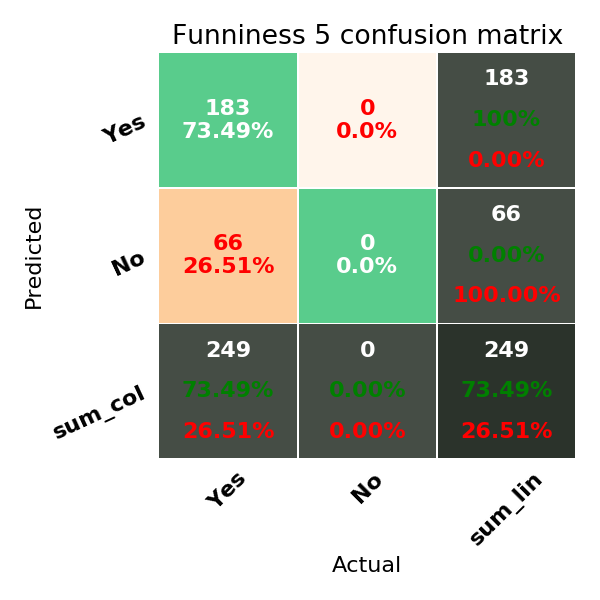
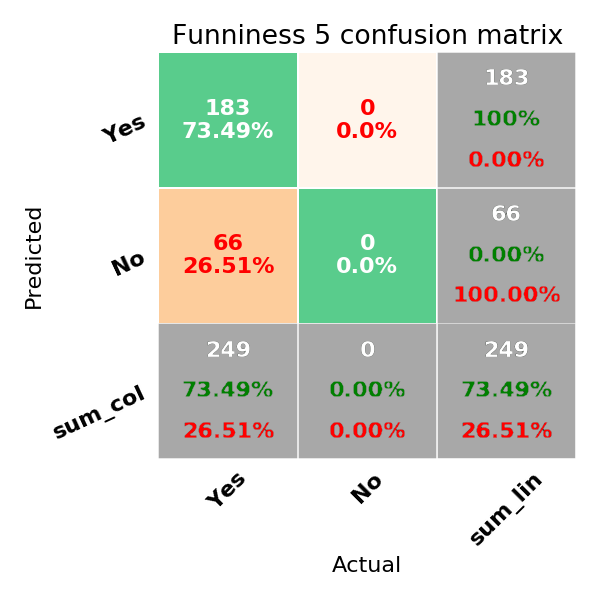
add two stage confusion some corrections improve confusion matrix graphics

Changed region(s): [[0.24, 0.06, 0.96, 0.78]]

diff --git a/documentation/thesis/thesis.tex b/documentation/thesis/thesis.tex
@@ -49,6 +49,8 @@
 \nonzeroparskip             % Create space between paragraphs (optional).
 \setlength{\parindent}{0pt} % Remove paragraph identation (optional).
 
+\newcounter{DefCounter}
+
 \makeindex      % Use an optional index.
 \makeglossaries % Use an optional glossary.
 %\glstocfalse   % Remove the glossaries from the table of contents.
@@ -139,44 +141,51 @@
 
 \chapter{Evaluation}
 
-This chapter aims to evaluate the performance of the implemented architectures. in
-general the results show that this problem is a very hard one, as, according to the
-gathered metrics, no trained model can understand the underlying structure and humour. \\
+This chapter aims to evaluate the performance of the implemented architectures. In
+general the results show that this problem is very hard. Despite the progress in the field of Deep Learning it was not possible to beat the baseline. \\
 
-The available data is split into three sub sets:
+The cartoon data set is split into three sub sets:
 
 \begin{itemize}
-\item Training Set: 40\%
-\item Validation Data: 20\%
-\item Test Data: 20\%
+\item Training Set: 1492 samples (70\%)
+\item Validation Data: 746 samples (20\%)
+\item Test Data: 249 samples (10\%)
 \end{itemize}
 
-The two main metrics chosen are mean absolute error (MAE) and accuracy. The MAE
-is being used because it does not penalize cases which are near misses as much. If the
-model predicts a funniness of 5, while the real funniness is 6 it is not as bad as it would
-have predicted a 1.
+Two evaluation metrics were chosen to determine the performance of each model: Mean absolute error (MAE) and accuracy.
+
+\newtheorem{mae}[DefCounter]{Definition}
+
+\begin{mae}
+$MAE = \frac{1}{n}\textstyle \sum_{i=1}^n \displaystyle\mid \hat{X}_i - X_i \mid$
+\end{mae}
+
+\newtheorem{accuracy}[DefCounter]{Definition}
+\begin{accuracy}
+$Accuracy = \frac{|True Positives| + |True Negatives|} {|True Positives| + |True Negatives| + |False Positives| + |False Negatives|}$
+\end{accuracy}
+
+The MAE is interesting because a near miss is less penalized. For example, if a model predicts funniness of 5, while the real funniness is 6, the term $\mid 5 - 6 \mid = 1$. On the other hand if the predicted funniness were a 2, the term $\mid 2 - 6 \mid = 4$. The lower the MAE the better.
+
+The Accuracy is chosen because it is very easy to understand and is commonly used for classification tasks. The higher the accuracy the better.
+
 The experiments were run on a PC running Ubuntu 18.04 LTS using PyTorch 1.0 and
 Python 3.6. The hardware is a GTX 1070 Max-Q with an Intel Core i7-8750H. For more
-information regarding the build set up and necessary environment please refer to the
-GitHub Repository
-The hyperparameters were chosen based on best practice, trial’n error and previous
-experience with deep neural network training. The search space is far too vast to
-exhaustively search for the best setting.
+information regarding the build set up and necessary environment please refer to the GitHub Repository \cite{deephumorrepo}.
+
+The hyperparameters were chosen based on best practice and previous
+experience by the author with deep neural network training. Because there are many hyperparameters an automated search of the hyperparameter space is infeasible with the hardware available to the author.
 
 \section{Dataset Analysis}
-The dataset consists of around 2500 cartoons. Each sample consists of the following properties:
-\begin{itemize}
-\item cartoon image
-\item punchline text
-\item boolean field which holds the information whether the annotator understands the cartoon
-\item funniness of the cartoon from 1 to 7, where 1 is not funny at all and 7 is very hilarious.
-\end{itemize}
+The dataset consists of 2487 cartoons. Each sample consists of a cartoon image, punchline text and a funniness scale from 1 to 7. The funniness scale is ordinal, where 1 means not funny at all and 7 is very hilarious.
 
-Annotation was performed by one of the authors (Robert Fischer) over the course of half a year. The annotation was split in two steps. The first step was preparing the cartoons. In this step the cartoons where cropped and rotated accordingly, as well as the punchline was transcribed from the image into text format. This stepped was aided by OCR, but heavy manual adjustments had to be applied. Additionally cartoons with bad quality, as well as duplicates were also removed.
+Annotation was performed by one of the authors (Robert Fischer) over the course of half a year. The annotation was split in two steps. The first step was preparing the cartoons. In this step the cartoons where cropped and rotated accordingly. The punchline was transcribed from the image into text format, using an OCR, but many manual adjustments had to be applied as well. Additionally cartoons with bad quality, as well as duplicates were also removed.
 
-The second step was to annotate the funniness of the cartoons. There was the problem of humour fatigue: After annotating cartoons for too long, the annotations would get unreliable and could possibly be wrongly classified. This was mitigated by limiting the duration of the annotation sessions per session. Each annotation session lasted 30 minutes at maximum, but even shorter sessions were preferred. This was due to the sheer size of the dataset and the necessity that it had to be annotated by the same person a very time consuming task.
+The second step was to annotate the funniness of the cartoons. There was the problem of humor fatigue: After annotating cartoons for too long, the annotations would get unreliable and could possibly be wrongly classified. This was mitigated by limiting the duration of the annotation sessions. Each annotation session lasted 30 minutes at maximum, but shorter sessions were preferred. 
 
-A dataset analysis revealed several interesting facts about the dataset. Figure [\ref{fig:labeldistr}] shows a bar plot of the label distribution.
+Due to the subjectiveness of human humor the annotations were performed by one person. This could allow the model to extract the humor of the person annotating the cartoons.
+
+A dataset analysis revealed several interesting facts about the dataset. Figure [\ref{fig:labeldistr}] shows a bar plot of the label distribution. Unexpectedly the funniness is not uniformly distributed. Over 14\% of the cartoons were deemed to be not funny at all, while only 2\% of cartoons were deemed to be very hilarious.
 
 To verify that the distribution of the annotations has not changed over the course of annotation refer to figure [\ref{fig:boxplottime}]. Each cartoon has an ascending identification number. Cartoons were  combined into buckets by this number. Finally for each of this bucket a box plot is plotted. This shows no significant change of label distribution over the course of annotation.
 
@@ -308,19 +317,13 @@ training set.
 
 \end{itemize}
 
-For the mean absolute error metric the average performed best, while for the accuracy
-score the most frequent class has the best score.
+For the mean absolute error metric the average performed best, while for the accuracy score the most frequent class has the best score.
 
 \subsection{Simple CNN}
-The simple CNN architecture overfits very quickly. The accuracy and MAE sores are
-very similar to the most frequent baseline, which indicates that the model most likely
-learns to return the most frequent class, instead of generalizing the humour.
+The simple CNN architecture overfits very quickly. The accuracy and MAE scores are very similar to the most frequent baseline, which indicates that the model most likely learns to return the most frequent class.
 
 \subsection{Transfer Learning of Pretrained ResNet18}
-Noteworthy about this approach is that also enabling the data augmentation in the
-training phase makes this approach better than the baseline. The exact reason is not
-obvious, but indicates that the model does not generalize enough for the
-training samples which are not augmented.
+Noteworthy about this approach is that also enabling the data augmentation in the testing/validation phase makes this approach better than the baseline. The exact reason is not obvious, but indicates that the model expects the cartoons to be augmented.
 
 The data augmented version of this experiment unexpectedly achieved the best results during testing phase.
 
@@ -408,13 +411,12 @@ In general it seems that the model often ignores the input data and instead lear
 	\label{fig:confusionmatrixtransferlearningval}
 \end{figure}
 
-One can clearly see that for both the validation and test split the model learned to approximate the label distribution, instead of learning to generalize the underlying structure. The three most frequent funniness classes (1, 4 and 2) are the only ones the model predicts and are therefore by chance correct. Other classes are not predicted at all by the classifier. This motivated the design of the two stage model where the first stage trained a neural network for each class. The task for this neural is to determine whether the given sample belongs to the funniness class it belongs to or not. The second stage uses these results and outputs a final prediction.
+One can clearly see that for both the validation and test split the model learned to approximate the label distribution, instead of learning to generalize the underlying structure. The three most frequent funniness classes (1, 4 and 2) are the only ones the model predicts and are therefore by chance correct. Other classes are not predicted at all by the classifier. This motivated the design of the two stage model, where specific models are trained for each funniness class.
 
 
 \subsection{Transfer Learned Object Detection}
 
-The result of the object detection approach are incomparable to the other results, as it was not implemented far enough to return any labels. Since initial tests for a simplified image classification task, it was not further developed, as the predicted objects for each object were essentially
-random.
+The result of the object detection approach are incomparable to the other results, as it was not implemented far enough to return any labels. It was not further developed, as the predicted objects for each object were essentially random.
 
 \subsection{ELMo Pretrained Model}
 
@@ -422,11 +424,9 @@ Based on the pretrained ELMo model this model initially looked the most promisin
 achieved the highest validation accuracy. Unfortunately this was only due to overfitting,
 as during test phase the performance dropped.
 
-One problem of this approach may be, that many insider jokes of Gary Larson's humour are lost.
-
 Most likely a problem of this approach is that many insider jokes are lost, due to the fact
 that the pretrained vocabulary of the ELMo model does not contain many of them, so
-they can not be used by our model.
+they can not be used by our model. For example the word "Thag" which is one of the most frequent terms for cartoons with funniness 7 is not in the ELMo vocabulary and therefore ignored.
 
 \subsection{AutoML Model}
 Initially, when testing on the validation set, the TFIDF configuration looked very promising, as it achieved top results with a very simple feature representation. The test set
@@ -437,16 +437,15 @@ it would not have suffered by the problem of domain specific words.
 For this experiment the library hyperopt-sklearn was used, as it accomplishes state-ofthe-art of AutoML.
 
 \subsection{Two Stage Model}
-The Two Stage Models did not achieve significantly improved results, as it was not able to beat the baseline. The idea of trying to avoid overfitting by splitting the big tasks into smaller sub networks which only have a binary decision to make did not work as expected.
+The Two Stage Models is not better than the average baseline. The idea of trying to avoid overfitting by using multiple classifiers for each funniness did not work as expected.
 
-Combining the visual and textual information also did not work as hoped. The MAE
-score is on par with the baseline, while still beating it at the accuracy score - so it is
-technically better. The improvement is not strong enough, that to say that it really
-understands humour.
+Combining the visual and text information did improve the results, but not significantly. The MAE
+score is on par with the baseline, while still beating it at the accuracy score. This improvement is still very weak.
+understands humor.
 
 One problem identified was the fact, that the images contained much more data compared to the punchlines. To tackle this problem, the idea was to use a deep autoencoder. This reduces the feature size of the images significantly. But against our expectation it did not improve the results compared to previous attempts.
 
-When comparing the MAE of the Two stage model (figure [\ref{twostagemae}]) an interesting phenomena can be observed: Even though the performance is very similar to the average baseline, the actual MAEs per class are different.
+When comparing the MAE of the Two stage model (figure [\ref{twostagemae}]) an interesting phenomena can be observed: Even though the performance is very similar to the average baseline, the actual MAEs per class are different. This means that the model does not simply return the average funniness, but does something else.
 
 \begin{figure}
 \centering
@@ -513,9 +512,9 @@ It seems that the first stage is not effective in doing so. For funniness 3, 4, 
 
 The goal of the auto encoder using the deep convolutional architecture is to reduce the dimensionality of the images, while still maintaining the important characteristics of the original cartoons. 
 
-Comparing the reconstructed cartoon with the original cartoon reveals that the autoencoder looses important information which could be crucial for understanding humour. For example the facial expressions are lost, as well as many other high frequency details. For example the native american lying on the floor is not recognizable anymore. 
+Comparing the reconstructed cartoon with the original cartoon reveals that the autoencoder looses important semantic information which could be crucial for understanding humor. For example the facial expressions are lost, as well as many other high frequency details. For example the native American lying on the floor is not recognizable anymore. 
 
-These details seem to be very important for the funniness classification task and if missing cause the image data to be not more than additional noise, which is probably the reason why the two stage model with autoencoded cartoons performs the worst.
+These details seem to be very important for the funniness classification task and if missing cause the image data to be not more than additional noise, which is probably the reason why the two stage model with autoencoded cartoons performs worse.
 
 \begin{figure}
 	\centering
@@ -532,11 +531,12 @@ These details seem to be very important for the funniness classification task an
 \end{figure}
 
 \section{Additional Experiments}
-Honourable mention of experiments performed but did not make the cut for an analysis, in no particular order:
+A list of experiments performed but did not make the cut for a more detailed analysis:
 
 \begin{itemize}
 \item \textbf{LSTM / GRU}: Overfitting was a big problem early on
-\item \textbf{Wasserstein Loss instead of Cross Entropy Loss}: Idea was to penalize near misses less compared to big misses, similar to the regression L1 loss.
+\item \textbf{Wasserstein Loss instead of Cross Entropy Loss}: Idea was to penalize near misses less.
+\item \textbf{L1 Loss}: Model as a regression task. Model was not even able to approximate the Average Baseline using this approach
 \item \textbf{Applying a discrete cosine transformation (DCT)}: Since convolutions are not well suited for line drawings the idea was to apply a DCT beforehand. 
 \item \textbf{Advanced Two Stage Model}: Add different binary classifiers in the first stage.
 \item \textbf{Loss Weighting of Two Stage Model}: Try different penalties for different kind of errors in the first stage. For example add more penalty for true positives compared to false negatives.
@@ -578,7 +578,7 @@ Two Stage Model with Cartoons                                                   
 
 \subsection{Test Results}
 
-The results at figure [\ref{fig:testperformance}] show the performance of the models for the test set. Compared to the validation set the best performing models change: The model which maximizes the accuracy measure is now using the visual data, namely the transfer learning CNN on the data augmented test set. Also the two stage model with cartoon data seems to generalize slightly better.
+The results at figure [\ref{fig:testperformance}] show the performance of the models for the test set. Compared to the validation set the best performing models change: The model which maximizes the accuracy measure is now using the visual data, namely the transfer learning CNN on the data augmented test set. Also the two stage model without cartoon data seems to generalize slightly better.
 
 \begin{figure}
 \begin{tabular}{|l|l|l|l|l|}
@@ -605,7 +605,7 @@ Two Stage Model with Cartoons                                                   
 
 \subsection{Training Duration}
 
-Figure [\ref{trainingruntime}] shows the training durations of each experiment. A general trend, is that the text based models (ELMo, Two Stage Model) train significantly faster than the visual based models (Simple CNN, Transfer Learning CNN, Two Stage Model with Cartoons). This can be explained by the size of the input vector for the neural network. The data for the text representation is denser for the text representation compared to the representation of images.
+Figure [\ref{trainingruntime}] shows the training durations of each experiment. A general trend, is that the text based models (ELMo, Two Stage Model) train significantly faster than the visual based models (Simple CNN, Transfer Learning CNN, Two Stage Model with Cartoons). This can be explained by the size of the input vector for the neural network. The data for the text representation is denser compared to the representation of images.
 
 \begin{figure}
 \centering
@@ -635,14 +635,14 @@ Two Stage Model with Autoencoded Cartoons     & 15m 23s         \\
 
 \section{Evaluation Conclusion}
 
-In general the conclusion is that no model really learns to generalize the humour of
+In general the conclusion is that no model really learns to generalize the humor of
 Gary Larson. There is no significant improvement compared to the baselines available.
-Further research into this direction could reveal significant insights into the human humour, as current methods are not capable to achieve significant results.
+Further research into this direction could reveal significant insights into the human humor, as current methods are not capable to achieve significant results.
 
-Potential causes can not be attributed to exactly one issue. One reason is certainly, that the problem space is not sufficiently described by the data set. As most deep learning data sets are many order of magnitudes larger, while the task at hand is arguably easier (For example.: CIFAR 10 data set) than humour classification. Current techniques of transfer learning are not sufficient to solve this issue. Most certainly once more sophisticated transfer learning techniques have been established, solving this problem could be more feasible. 
+Potential causes can not be attributed to exactly one issue. One reason is most certainly, that the problem space is not sufficiently grasped by the data set. As most deep learning data sets are many order of magnitudes larger, while the task at hand is arguably easier (For example: CIFAR 10 data set \cite{dogsvscats}) than humor classification. Current techniques of transfer learning are not sufficient to solve this issue. Most certainly once more sophisticated transfer learning techniques have been established, solving this problem could be more feasible. 
 
 One could also argue that the problem itself is flawed. Letting a human rate a
-cartoon is very subjective and likely depends on many factors. For example: Current mood, whether the person has already seen the cartoon, time of day and also the exact reason for doing the rating. It could be that these factors outweigh the true humour, which makes it impossible to reproduce the original ratings. To answer these questions an additional experiment could be performed. After some time after the initial ratings have been done, the same person rates them again. If and how the results are reproducible could then be evaluated by comparing the results of the new rating versus the old ratings. If the results are much different, this would mean that the problem itself is flawed.
+cartoon is very subjective and likely depends on many factors. For example: Current mood, whether the person has already seen the cartoon, time of day and also the exact reason for performing the annotation. It could be that these factors outweigh the true humor, which makes it impossible to reproduce the original ratings. To answer these questions an additional experiment could be performed: After some time after the initial ratings have been performed, the same person rates the cartoons again. If the ratings are not even reproducible by the same annotator, then it seems to be impossible for a deep learning based model.
 
 %\chapter{Introduction}
 %\todo{Enter your text here.}
@@ -671,6 +671,6 @@ cartoon is very subjective and likely depends on many factors. For example: Curr
 
 % Add a bibliography.
 \bibliographystyle{abbrv}
-\bibliography{citations.bib}
+\bibliography{citations}
 
 \end{document}
